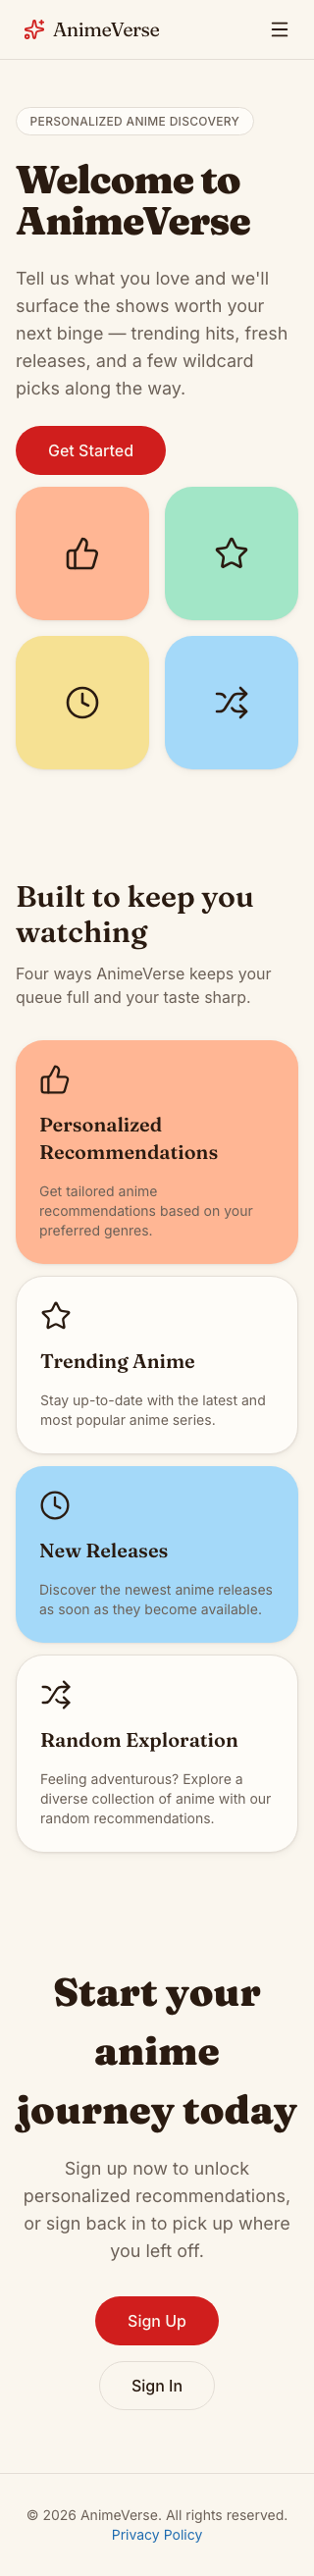
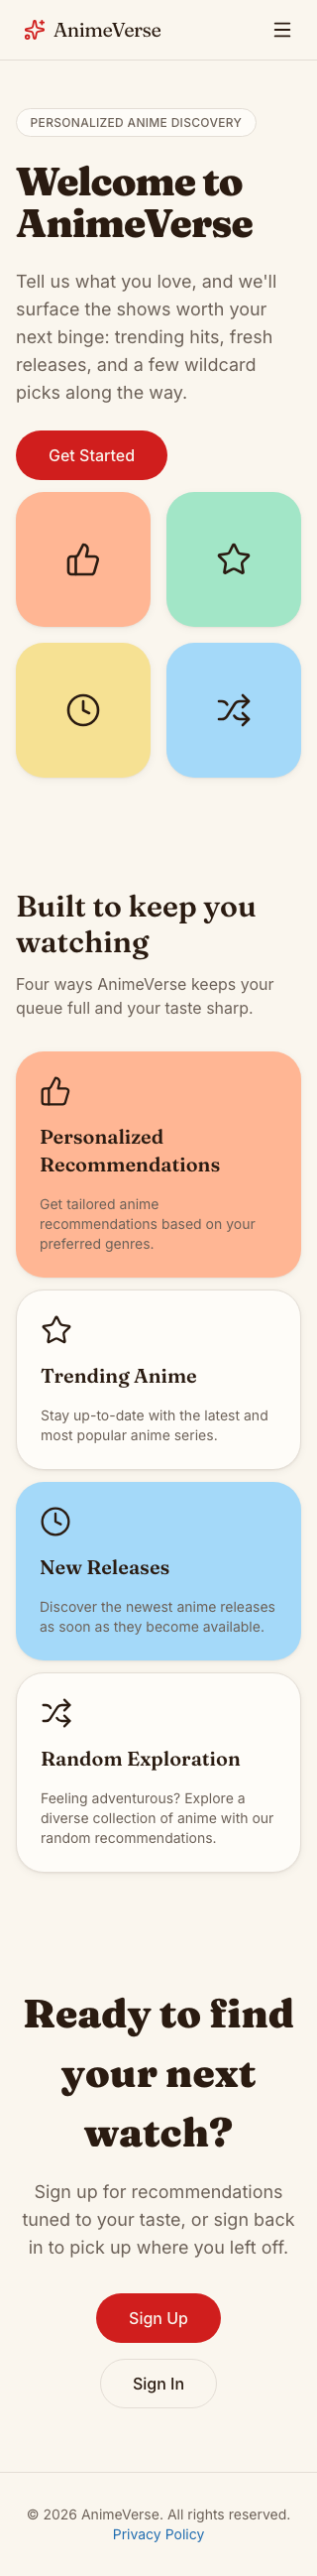
Rewrite marketing-cliche copy on Home and Signup
Home's hero paragraph had an em dash; its closing CTA leaned on generic
phrasing ("start your anime journey", "unlock personalized
recommendations"). Signup's brand panel repeated the same "unlock" filler.
Replaced with plainer, more direct copy. Updated the 320px Home visual
baseline since the shorter CTA copy reflows the mobile layout by a few
pixels.

diff --git a/src/pages/Home.tsx b/src/pages/Home.tsx
@@ -57,7 +57,7 @@ export default function Home() {
               Welcome to AnimeVerse
             </h1>
             <p className="text-lg text-[var(--color-muted)] max-w-md">
-              Tell us what you love and we'll surface the shows worth your next binge — trending hits, fresh
+              Tell us what you love, and we'll surface the shows worth your next binge: trending hits, fresh
               releases, and a few wildcard picks along the way.
             </p>
             <div>
@@ -111,10 +111,10 @@ export default function Home() {
             className="font-display font-black text-[var(--color-ink)] mb-4"
             style={{ fontSize: 'var(--text-display)' }}
           >
-            Start your anime journey today
+            Ready to find your next watch?
           </h2>
           <p className="text-[var(--color-muted)] mb-8 text-lg">
-            Sign up now to unlock personalized recommendations, or sign back in to pick up where you left off.
+            Sign up for recommendations tuned to your taste, or sign back in to pick up where you left off.
           </p>
           <div className="flex flex-col sm:flex-row items-center justify-center gap-4">
             <Link to="/signup" className="btn btn-accent px-8 py-3 text-base no-underline">

diff --git a/src/pages/Signup.tsx b/src/pages/Signup.tsx
@@ -40,7 +40,7 @@ export default function Signup() {
                 Tell us what you love. We'll find your next binge.
               </h2>
               <p className="text-sm opacity-80 max-w-xs">
-                Create an account to unlock personalized recommendations tuned to your taste.
+                Create an account to get recommendations tuned to your taste.
               </p>
             </div>
           </div>